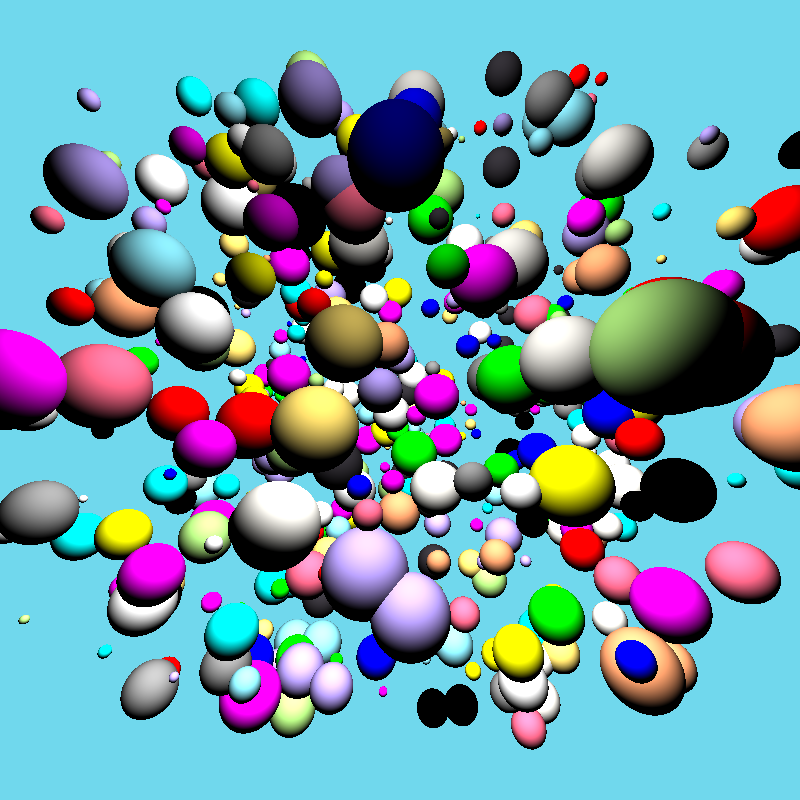
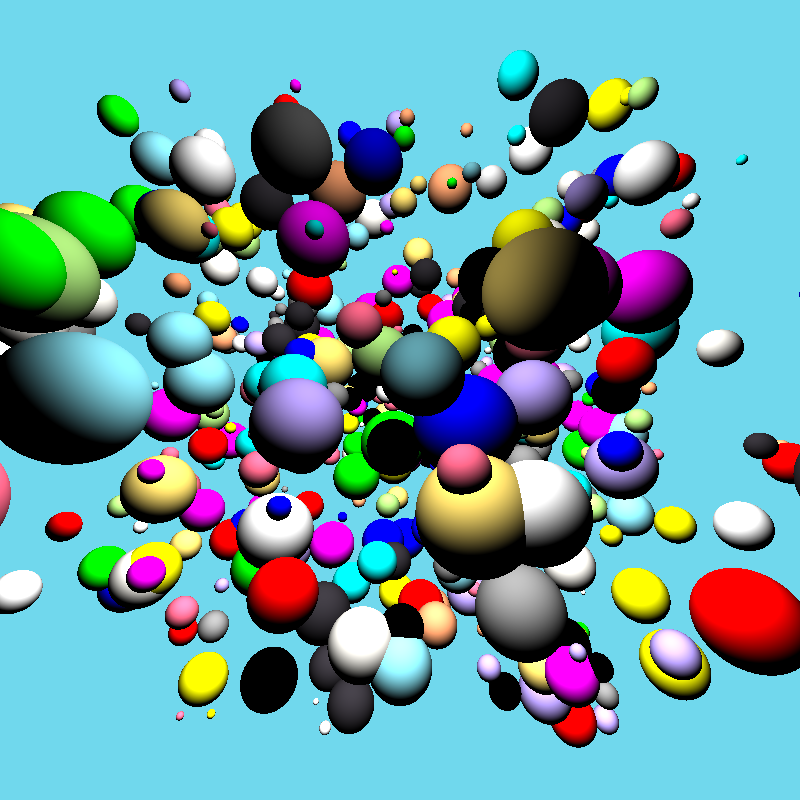
cleaned intersect of clone

diff --git a/src/scene/Scene.java b/src/scene/Scene.java
@@ -60,8 +60,8 @@ public class Scene {
     //#endregion
 
     public boolean traceRay(Ray ray){
-        double t = Double.MAX_VALUE;
-        Geometry target = null;
+        // double t = Double.MAX_VALUE;
+        // Geometry target = null;
         // Ray clone;
         // for(Geometry geometry : geometries){
         //     clone = new Ray(ray);
@@ -71,6 +71,11 @@ public class Scene {
         //         target = clone.target();
         //     }
         // }
+        // if(target != null) ray.hit(target,t);
+        // return t != Double.MAX_VALUE && target != null;
+
+        double t = Double.MAX_VALUE;
+        Geometry target = null;
         for(Geometry geometry : geometries){
             geometry.intersect(ray);
             if(ray.t()<t){
@@ -80,6 +85,10 @@ public class Scene {
         }
         if(target != null) ray.hit(target,t);
         return t != Double.MAX_VALUE && target != null;
+
+        // for(Geometry geometry : geometries) geometry.intersect(ray);
+
+        // return ray.target() != null;
     }
 
     public void makeImage(Shader shader, String name, boolean timed){

diff --git a/src/math/MUtils.java b/src/math/MUtils.java
@@ -1,5 +1,7 @@
 package math;
 
+import geometry.Geometry;
+
 public class MUtils {
     public static boolean approxEqual(double a, double b){
         double x = Math.abs(a - b);
@@ -23,7 +25,27 @@ public class MUtils {
             t1 = t2;
             t2 = temp;
         }
-        ray.hit(t1);
+        if(t1<=0) return false;
+        // ray.hit(t1);
+        return true; 
+    }
+    public static boolean solveQuadratic(double a, double b, double c, Ray ray, Geometry target){
+        double t1,t2;
+        double discr = b * b - 4 * a * c; 
+        if (discr < 0) return false; 
+        else if (discr == 0) t1 = t2 = - 0.5 * b / a; 
+        else {
+            double q = -0.5 * (b + ( (b > 0) ? Math.sqrt(discr) : -Math.sqrt(discr) )); 
+            t1 = q / a; 
+            t2 = c / q; 
+        } 
+        if (t1 > t2){
+            double temp = t1;
+            t1 = t2;
+            t2 = temp;
+        }
+        if(t1<=0) return false;
+        ray.hit(target,t1);
         return true; 
     } 
 }

diff --git a/src/geometry/Sphere.java b/src/geometry/Sphere.java
@@ -25,15 +25,11 @@ public class Sphere extends Geometry{
 
     @Override public boolean intersect(Ray ray){
         Vector dir = ray.dir();
-        
         Vector L = ray.origin().sub(c);
         double a = dir.dot(dir);
         double b = 2 * dir.dot(L);
         double c = L.dot(L) - r*r;
-        if(!MUtils.solveQuadratic(a,b,c,ray)) return false;
-        if(ray.t() < 0) return false;
-        ray.hit(this);
-        return true;
+        return MUtils.solveQuadratic(a,b,c,ray,this);
     }
     
     @Override public Vector normal(Point hit){

diff --git a/src/math/Ray.java b/src/math/Ray.java
@@ -27,15 +27,10 @@ public class Ray{
         return origin.add(dir.mul(t));
     }
 
-    public void hit(Geometry target){
-        this.target = target;
-    }
-    public void hit(double t){
-        this.t = t;
-    }
     public void hit(Geometry target, double t){
-        this.target = target;
-        this.t = t;
+        if( this.t>t && t > 0)
+            this.target = target;
+            this.t = t;
     }
 
     public double len(){ return dir.mag(); }
